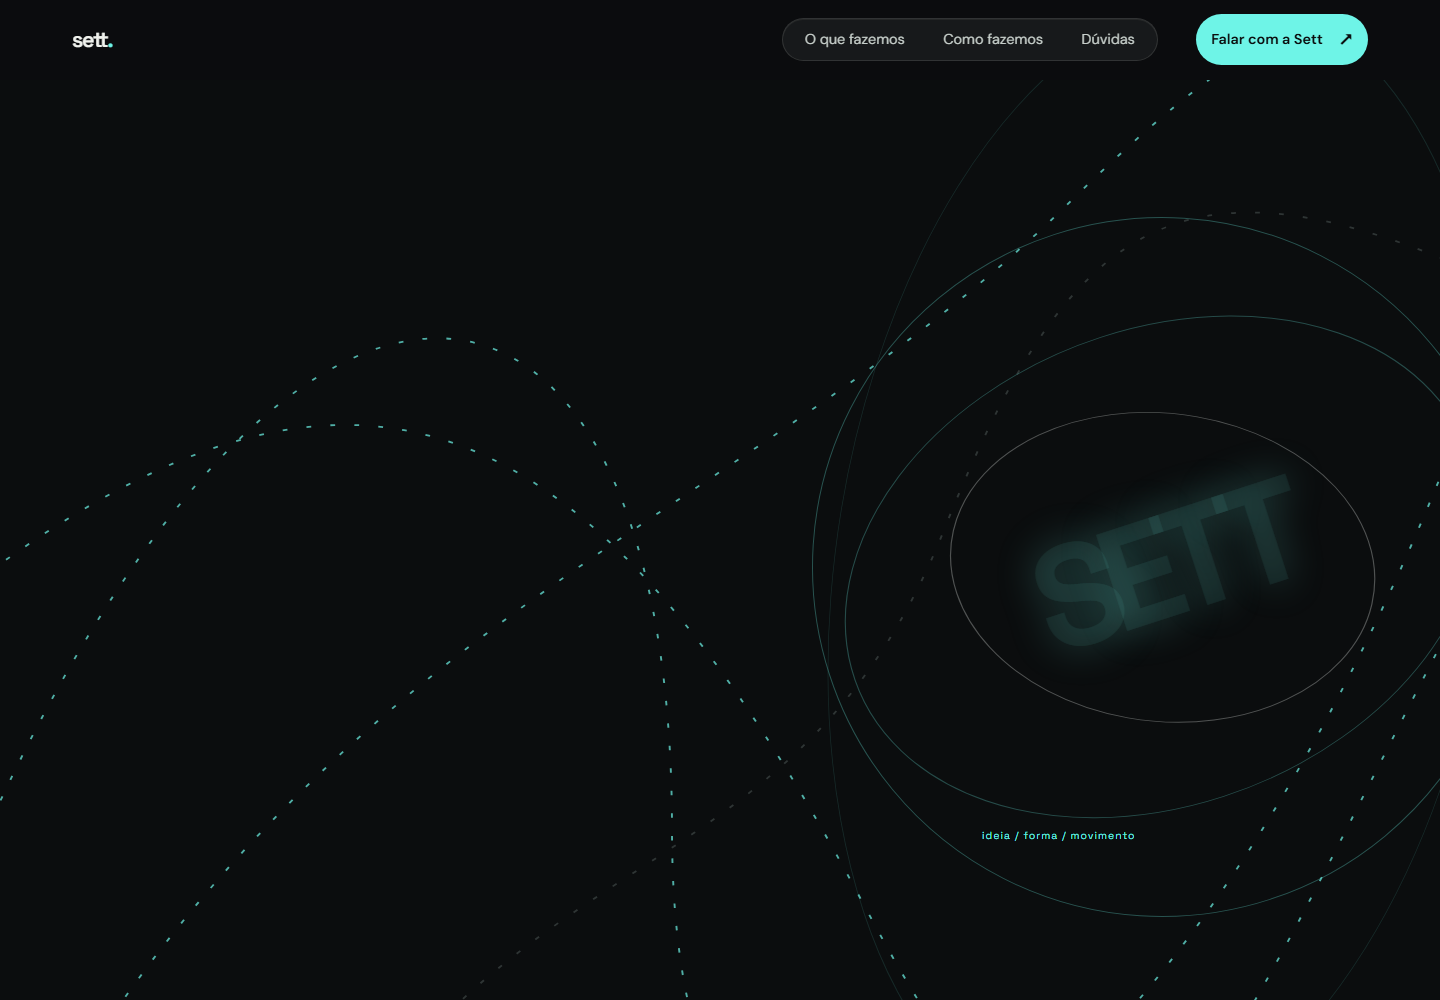
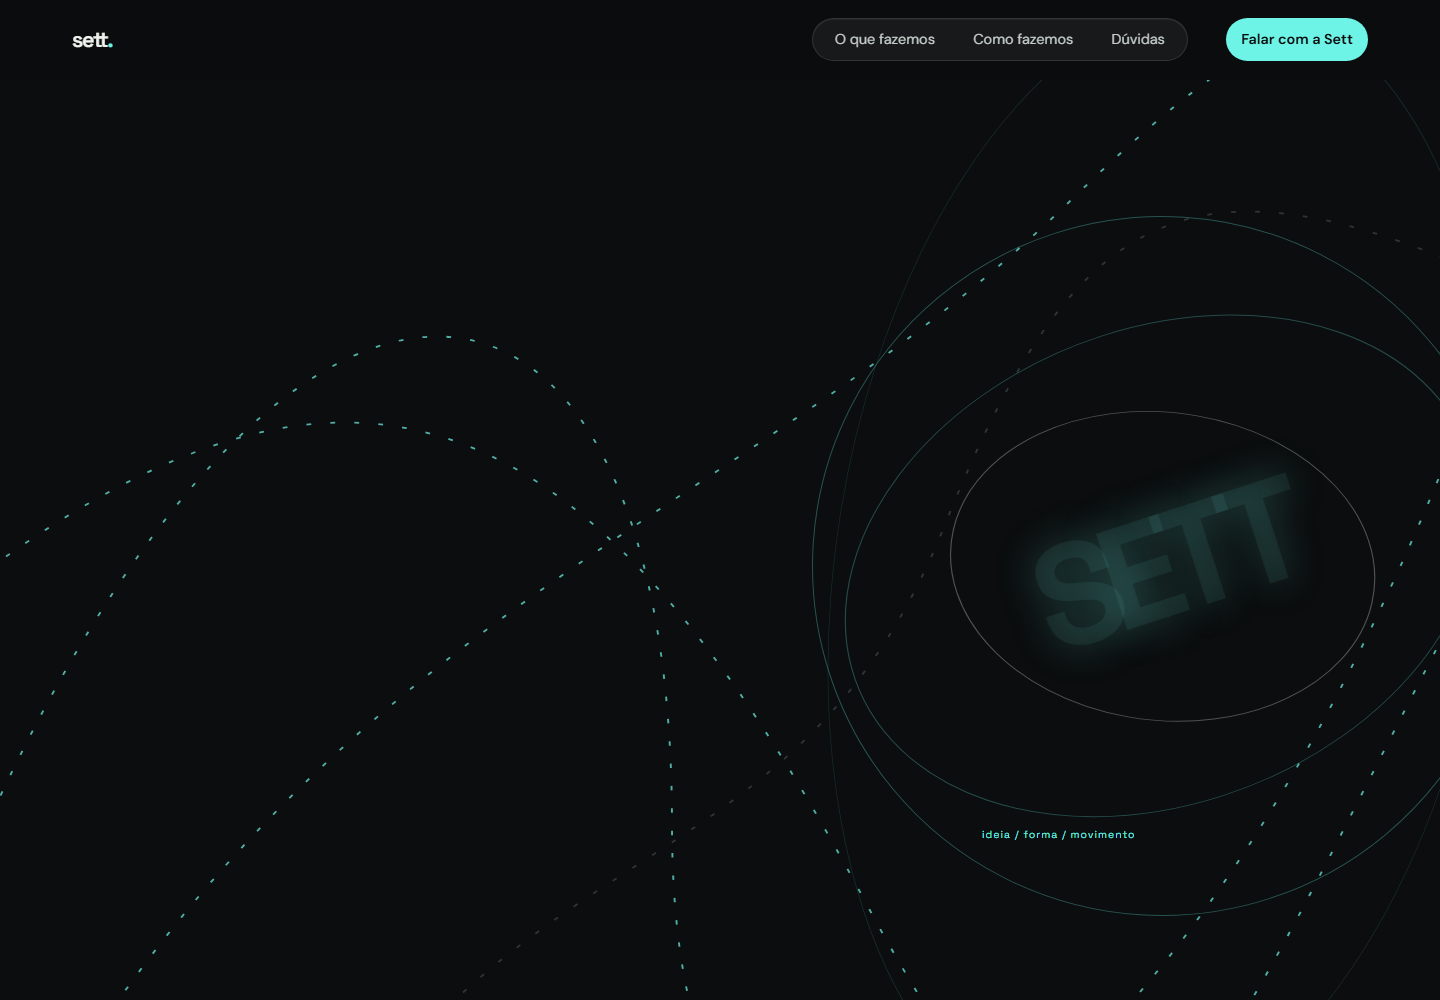
Add files via upload

Changed region(s): [[0.5625, 0.0, 0.9375, 0.062], [0.6875, 0.806, 0.7812, 0.837]]

diff --git a/index.html b/index.html
@@ -14,7 +14,7 @@
   <header class="site-header">
     <a class="brand" href="#top" aria-label="Sett Digital, início"><span>sett<span class="brand-dot">.</span></span></a>
     <nav class="desktop-nav" aria-label="Navegação principal"><a href="#servicos">O que fazemos</a><a href="#processo">Como fazemos</a><a href="#faq">Dúvidas</a></nav>
-    <a class="button button-small" href="#contato">Falar com a Sett <span aria-hidden="true">↗</span></a>
+    <a class="button button-small" href="#contato">Falar com a Sett</a>
     <button class="menu-toggle" type="button" aria-expanded="false" aria-controls="mobile-nav"><span></span><span></span><span></span><span class="sr-only">Abrir menu</span></button>
     <nav id="mobile-nav" class="mobile-nav" aria-label="Navegação mobile"><a href="#servicos">O que fazemos</a><a href="#processo">Como fazemos</a><a href="#faq">Dúvidas</a><a href="#contato">Falar com a Sett</a></nav>
   </header>
@@ -22,24 +22,24 @@
   <main id="top">
     <section class="hero section-grid" aria-labelledby="hero-title">
       <div class="hero-paths" aria-hidden="true"><svg viewBox="0 0 900 700" preserveAspectRatio="none"><path d="M-40 580C160 40 420 60 420 500S760 740 950 120"/><path d="M-100 410C200 120 360 190 540 550S750 650 980 220"/><path d="M30 690C220 350 470 290 670 80S840 20 930-40"/><path class="path-faint" d="M200 730C330 500 500 540 590 300S760 30 1020 180"/></svg></div>
-      <div class="hero-copy"><p class="eyebrow reveal">Estúdio independente de estratégia e design</p><h1 id="hero-title" class="hero-title reveal">Marcas que<br><em>não passam.</em></h1><p class="hero-lead reveal">A Sett transforma intenção em presença. Estratégia, identidade e experiências digitais para fazer uma marca ocupar o lugar que merece.</p><div class="hero-actions reveal"><a class="button" href="#contato">Começar uma conversa <span aria-hidden="true">↗</span></a><a class="text-link" href="#servicos">Ver como podemos ajudar <span aria-hidden="true">↓</span></a></div></div>
+      <div class="hero-copy"><p class="eyebrow reveal">Estúdio independente de estratégia e design</p><h1 id="hero-title" class="hero-title reveal">Marcas que<br><em>não passam.</em></h1><p class="hero-lead reveal">A Sett transforma intenção em presença. Estratégia, identidade e experiências digitais para fazer uma marca ocupar o lugar que merece.</p><div class="hero-actions reveal"><a class="button" href="#contato">Começar uma conversa</a><a class="text-link" href="#servicos">Ver como podemos ajudar</a></div></div>
       <div class="hero-orbit" aria-hidden="true"><div class="orbit-ring ring-one"></div><div class="orbit-ring ring-two"></div><div class="orbit-ring ring-three"></div><div class="orbit-word">SETT</div><div class="orbit-label">ideia / forma / movimento</div></div>
       <div class="hero-foot reveal"><span>01</span><span>Scroll para entrar</span><span class="line"></span><span>Salvador · Brasil</span></div>
     </section>
 
     <section class="trust section-grid" aria-labelledby="trust-title"><div class="section-index">02 / confiança</div><div><h2 id="trust-title" class="section-title reveal">Ainda estamos construindo<br>nossa <span>história.</span></h2><p class="section-text reveal">Este é o primeiro site da Sett Digital. Em vez de preencher espaço com números ou logos, preferimos mostrar como pensamos e o que podemos construir com você.</p></div><div class="trust-stamp reveal"><span>sem promessa vazia</span><strong>feito<br>com intenção</strong><span>desde o primeiro frame</span></div></section>
 
-    <section class="tension section-grid" aria-labelledby="tension-title"><div class="section-index">03 / direção</div><div class="tension-quote"><h2 id="tension-title" class="section-title reveal">Sua marca já existe.<br>Mas ela <em>aparece?</em></h2><div class="solution reveal"><span class="solution-number">→</span><div><h3>Clareza antes do ruído.</h3><p>A gente encontra o centro da sua marca, traduz isso em uma linguagem própria e cria os pontos de contato que fazem sentido para o seu momento.</p></div></div></div></section>
+    <section class="tension section-grid" aria-labelledby="tension-title"><div class="section-index">03 / direção</div><div class="tension-quote"><h2 id="tension-title" class="section-title reveal">Sua marca já existe.<br>Mas ela <em>aparece?</em></h2><div class="solution reveal"><span class="solution-number">01</span><div><h3>Clareza antes do ruído.</h3><p>A gente encontra o centro da sua marca, traduz isso em uma linguagem própria e cria os pontos de contato que fazem sentido para o seu momento.</p></div></div></div></section>
 
     <section id="servicos" class="services section-grid" aria-labelledby="services-title"><div class="section-index">04 / o que fazemos</div><div><h2 id="services-title" class="section-title reveal">Da primeira ideia<br>ao <span>último detalhe.</span></h2><div class="service-list"><article class="service reveal"><span class="service-tag">01</span><h3>Estratégia</h3><p>Posicionamento, narrativa e direção para decidir o que a marca quer dizer — e para quem.</p><span class="service-symbol">+</span></article><article class="service reveal"><span class="service-tag">02</span><h3>Identidade</h3><p>Um sistema visual com personalidade, consistência e espaço para a marca crescer.</p><span class="service-symbol">+</span></article><article class="service reveal"><span class="service-tag">03</span><h3>Digital</h3><p>Sites e experiências digitais que transformam a estratégia em interação real.</p><span class="service-symbol">+</span></article><article class="service reveal"><span class="service-tag">04</span><h3>Conteúdo</h3><p>Direção e formatos para manter a marca viva, presente e reconhecível.</p><span class="service-symbol">+</span></article></div></div></section>
 
     <section id="processo" class="process section-grid" aria-labelledby="process-title"><div class="section-index">05 / como fazemos</div><div><h2 id="process-title" class="section-title reveal">Menos receita.<br>Mais <span>presença.</span></h2><div class="process-track"><article class="process-step reveal"><span>01</span><h3>Escutar</h3><p>Entender contexto, ambição e o que está pedindo para mudar.</p></article><article class="process-step reveal"><span>02</span><h3>Encontrar</h3><p>Organizar ideias até aparecer uma direção que seja só sua.</p></article><article class="process-step reveal"><span>03</span><h3>Construir</h3><p>Dar forma, ritmo e consistência para essa direção ganhar o mundo.</p></article></div></div></section>
 
-    <section class="proof section-grid" aria-labelledby="proof-title"><div class="section-index">06 / prova real</div><div class="proof-panel reveal"><p class="eyebrow">Cases e depoimentos</p><h2 id="proof-title">O próximo capítulo<br>pode começar <em>aqui.</em></h2><p>Esta área será atualizada com projetos, resultados e depoimentos reais da Sett. Por enquanto, ela existe para deixar claro o nosso compromisso: nenhuma história será inventada para parecer maior.</p><a class="text-link" href="#contato">Construir o primeiro case <span aria-hidden="true">↗</span></a></div></section>
+    <section class="proof section-grid" aria-labelledby="proof-title"><div class="section-index">06 / prova real</div><div class="proof-panel reveal"><p class="eyebrow">Cases e depoimentos</p><h2 id="proof-title">O próximo capítulo<br>pode começar <em>aqui.</em></h2><p>Esta área será atualizada com projetos, resultados e depoimentos reais da Sett. Por enquanto, ela existe para deixar claro o nosso compromisso: nenhuma história será inventada para parecer maior.</p><a class="text-link" href="#contato">Construir o primeiro case</a></div></section>
 
     <section id="faq" class="faq section-grid" aria-labelledby="faq-title"><div class="section-index">07 / dúvidas</div><div><h2 id="faq-title" class="section-title reveal">Antes de começar,<br>algumas <span>respostas.</span></h2><div class="faq-list"><details class="reveal"><summary>Que tipo de projeto a Sett assume?<span>+</span></summary><p>Projetos de marca, presença digital e conteúdo em que estratégia e design precisam caminhar juntos. O escopo é definido a partir do seu contexto.</p></details><details class="reveal"><summary>Vocês trabalham com empresas em qual estágio?<span>+</span></summary><p>Podemos entrar no início de uma ideia, em um reposicionamento ou quando a marca precisa organizar sua presença digital.</p></details><details class="reveal"><summary>Como começa uma parceria?<span>+</span></summary><p>Começa com uma conversa. A partir dela, entendemos o desafio, o momento e os próximos passos possíveis.</p></details></div></div></section>
 
-    <section id="contato" class="final-cta section-grid" aria-labelledby="cta-title"><div class="cta-noise" aria-hidden="true"></div><div class="section-index">08 / próximo passo</div><div><h2 id="cta-title" class="cta-title reveal">Tem uma ideia<br>pedindo <em>espaço?</em></h2><p class="cta-text reveal">Vamos tirar ela do rascunho e colocar em movimento.</p><a class="button button-light reveal" href="mailto:ola@settdigital.com.br">Falar com a Sett <span aria-hidden="true">↗</span></a><p class="email-note">O endereço acima é um placeholder até você definir o contato oficial.</p></div></section>
+    <section id="contato" class="final-cta section-grid" aria-labelledby="cta-title"><div class="cta-noise" aria-hidden="true"></div><div class="section-index">08 / próximo passo</div><div><h2 id="cta-title" class="cta-title reveal">Tem uma ideia<br>pedindo <em>espaço?</em></h2><p class="cta-text reveal">Vamos tirar ela do rascunho e colocar em movimento.</p><a class="button button-light reveal" href="mailto:ola@settdigital.com.br">Falar com a Sett</a><p class="email-note">O endereço acima é um placeholder até você definir o contato oficial.</p></div></section>
   </main>
 
   <footer class="site-footer"><a class="brand" href="#top"><span class="brand-mark">S</span><span>sett<span class="brand-dot">.</span></span></a><p>Estratégia, design e presença<br>para marcas em movimento.</p><div><a href="#servicos">Serviços</a><a href="#processo">Processo</a><a href="#contato">Contato</a></div><small>© 2026 Sett Digital. Feito com intenção.</small></footer>
